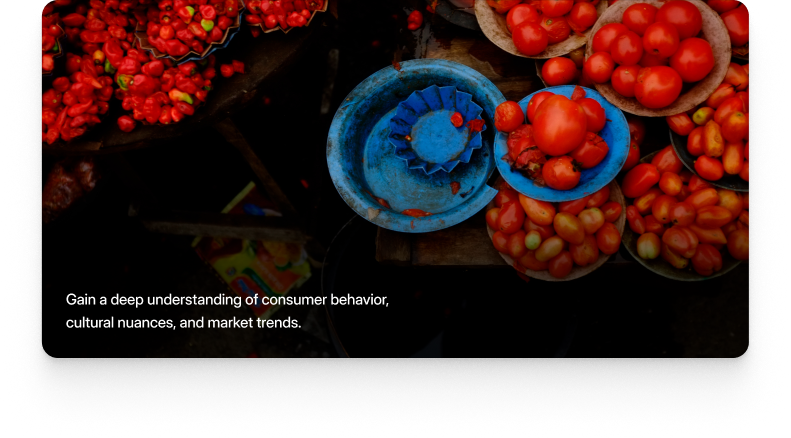
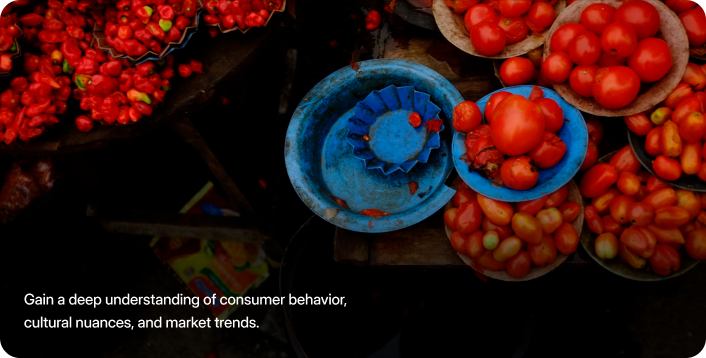
refactor: update core services section layout, styles, and images

diff --git a/src/components/services/core-services-section.tsx b/src/components/services/core-services-section.tsx
@@ -58,7 +58,11 @@ function NotchedBars({ color }: { color: string }) {
   const step = w / tabs;
 
   const makePath = (yTop: number) => {
-    const d: string[] = [`M 0 ${yTop}`, `L ${w} ${yTop}`, `L ${w - 4} ${yTop + h}`];
+    const d: string[] = [
+      `M 0 ${yTop}`,
+      `L ${w} ${yTop}`,
+      `L ${w - 4} ${yTop + h}`,
+    ];
     for (let i = tabs - 1; i > 0; i--) {
       const x = i * step;
       d.push(`L ${(x + 3.5).toFixed(1)} ${yTop + h}`);
@@ -75,12 +79,24 @@ function NotchedBars({ color }: { color: string }) {
       viewBox="0 0 260 34"
       fill="none"
       xmlns="http://www.w3.org/2000/svg"
-      className="h-auto w-full max-w-[240px] sm:max-w-[260px]"
+      className="h-auto w-full max-w-60 sm:max-w-65"
       aria-hidden="true"
     >
-      <path d={makePath(0)} fill={color} className="transition-colors duration-500" />
-      <path d={makePath(12)} fill={color} className="transition-colors duration-500" />
-      <path d={makePath(24)} fill={color} className="transition-colors duration-500" />
+      <path
+        d={makePath(0)}
+        fill={color}
+        className="transition-colors duration-500"
+      />
+      <path
+        d={makePath(12)}
+        fill={color}
+        className="transition-colors duration-500"
+      />
+      <path
+        d={makePath(24)}
+        fill={color}
+        className="transition-colors duration-500"
+      />
     </svg>
   );
 }
@@ -159,7 +175,10 @@ export function CoreServicesSection() {
 
     if (!isCur && !isOld) {
       return {
-        transform: direction === "next" ? "translate3d(0, 100%, 0)" : "translate3d(0, -100%, 0)",
+        transform:
+          direction === "next"
+            ? "translate3d(0, 100%, 0)"
+            : "translate3d(0, -100%, 0)",
         opacity: 0,
         zIndex: 0,
         pointerEvents: "none" as const,
@@ -171,14 +190,19 @@ export function CoreServicesSection() {
         transform: "translate3d(0, 0%, 0)",
         opacity: 1,
         zIndex: 2,
-        transition: animating ? "transform 500ms cubic-bezier(0.32, 0.72, 0, 1)" : "none",
+        transition: animating
+          ? "transform 500ms cubic-bezier(0.32, 0.72, 0, 1)"
+          : "none",
         pointerEvents: "auto" as const,
       };
     }
 
     // isOld (exiting)
     return {
-      transform: direction === "next" ? "translate3d(0, -100%, 0)" : "translate3d(0, 100%, 0)",
+      transform:
+        direction === "next"
+          ? "translate3d(0, -100%, 0)"
+          : "translate3d(0, 100%, 0)",
       opacity: 1,
       zIndex: 1,
       transition: "transform 500ms cubic-bezier(0.32, 0.72, 0, 1)",
@@ -193,7 +217,10 @@ export function CoreServicesSection() {
 
     if (!isCur && !isOld) {
       return {
-        transform: direction === "next" ? "translate3d(100%, 0, 0)" : "translate3d(-100%, 0, 0)",
+        transform:
+          direction === "next"
+            ? "translate3d(100%, 0, 0)"
+            : "translate3d(-100%, 0, 0)",
         opacity: 0,
         zIndex: 0,
         pointerEvents: "none" as const,
@@ -205,14 +232,19 @@ export function CoreServicesSection() {
         transform: "translate3d(0%, 0, 0)",
         opacity: 1,
         zIndex: 2,
-        transition: animating ? "transform 500ms cubic-bezier(0.32, 0.72, 0, 1)" : "none",
+        transition: animating
+          ? "transform 500ms cubic-bezier(0.32, 0.72, 0, 1)"
+          : "none",
         pointerEvents: "auto" as const,
       };
     }
 
     // isOld (exiting)
     return {
-      transform: direction === "next" ? "translate3d(-100%, 0, 0)" : "translate3d(100%, 0, 0)",
+      transform:
+        direction === "next"
+          ? "translate3d(-100%, 0, 0)"
+          : "translate3d(100%, 0, 0)",
       opacity: 1,
       zIndex: 1,
       transition: "transform 500ms cubic-bezier(0.32, 0.72, 0, 1)",
@@ -223,7 +255,7 @@ export function CoreServicesSection() {
   return (
     <section
       aria-labelledby="core-services-heading"
-      className="bg-eri-grey-2 py-8 text-eri-dark sm:py-10 lg:py-12"
+      className="bg-eri-grey-2 py-4 text-eri-dark sm:py-4 lg:py-6"
       onMouseEnter={() => setIsPaused(true)}
       onMouseLeave={() => setIsPaused(false)}
     >
@@ -243,13 +275,13 @@ export function CoreServicesSection() {
         </div>
 
         {/* ── Desktop layout ─────────────────────────────────────────── */}
-        <div className="hidden lg:grid lg:grid-cols-12 lg:items-center lg:gap-10 xl:gap-14">
+        <div className="hidden lg:flex lg:items-start lg:gap-2.5">
           {/* Left panel: capsule slider icon + Title + 3 Notched bars */}
-          <div className="col-span-5 flex flex-col justify-center">
+          <div className="w-70 shrink-0 pt-1">
             <div className="flex items-start gap-3.5">
               {/* Vertical pill capsule indicator */}
               <div
-                className="mt-2 flex w-[12px] flex-col items-center gap-1.5 rounded-full bg-black/[0.05] px-1 py-1.5 shadow-inner"
+                className="mt-1 flex w-3 flex-col items-center gap-1.5 rounded-full bg-black/5 px-1 py-1.5 shadow-inner"
                 role="tablist"
                 aria-label="Service slide selector"
               >
@@ -277,10 +309,12 @@ export function CoreServicesSection() {
               </div>
 
               {/* Title with smooth crossfade */}
-              <div className="min-h-[92px]">
+              <div className="min-h-23">
                 <h3
                   className={`font-display text-[32px] font-semibold leading-[1.12] tracking-[-0.02em] text-eri-dark whitespace-pre-line transition-all duration-300 xl:text-[36px] ${
-                    animating ? "translate-y-1 opacity-0" : "translate-y-0 opacity-100"
+                    animating
+                      ? "translate-y-1 opacity-0"
+                      : "translate-y-0 opacity-100"
                   }`}
                 >
                   {current.title}
@@ -294,21 +328,21 @@ export function CoreServicesSection() {
             </div>
           </div>
 
-          {/* Right panel: image card with vertical slide animation */}
-          <div className="col-span-7">
-            <div className="relative aspect-[791/438] w-full overflow-hidden rounded-2xl bg-eri-grey-3 shadow-md">
+          {/* Right panel: image card taking full width of container up to page boundary */}
+          <div className="min-w-0 flex-1">
+            <div className="relative aspect-706/358 w-full overflow-hidden rounded-[20px] isolate">
               {services.map((s, i) => (
                 <div
                   key={s.id}
-                  className="absolute inset-0 will-change-transform"
+                  className="absolute inset-0 overflow-hidden rounded-[20px] will-change-transform"
                   style={getDesktopStyle(i)}
                 >
                   <Image
                     src={s.image}
                     alt={s.imageAlt}
                     fill
-                    className="object-cover"
-                    sizes="(min-width: 1024px) 55vw, 100vw"
+                    className="rounded-[20px] object-cover"
+                    sizes="(min-width: 1024px) 70vw, 100vw"
                     priority={i === 0}
                   />
                 </div>
@@ -322,7 +356,7 @@ export function CoreServicesSection() {
           {/* Header text with vertical capsule slider icon */}
           <div className="flex items-start gap-3">
             <div
-              className="mt-1.5 flex w-[12px] flex-col items-center gap-1.5 rounded-full bg-black/[0.05] px-1 py-1.5 shadow-inner"
+              className="mt-1.5 flex w-3 flex-col items-center gap-1.5 rounded-full bg-black/5 px-1 py-1.5 shadow-inner"
               role="tablist"
               aria-label="Service slide selector"
             >
@@ -337,9 +371,7 @@ export function CoreServicesSection() {
                     aria-label={`Go to ${s.title.replace("\n", " ")}`}
                     onClick={() => goTo(i, i > active ? "next" : "prev")}
                     className={`rounded-full transition-all duration-300 focus-visible:outline-none ${
-                      isActive
-                        ? "h-3.5 w-1.5"
-                        : "h-1.5 w-1.5 bg-black/25"
+                      isActive ? "h-3.5 w-1.5" : "h-1.5 w-1.5 bg-black/25"
                     }`}
                     style={{
                       backgroundColor: isActive ? s.accentColor : undefined,
@@ -349,10 +381,12 @@ export function CoreServicesSection() {
               })}
             </div>
 
-            <div className="min-h-[70px]">
+            <div className="min-h-17.5">
               <h3
                 className={`font-display text-[26px] font-semibold leading-[1.15] tracking-[-0.02em] text-eri-dark whitespace-pre-line transition-all duration-300 sm:text-[30px] ${
-                  animating ? "translate-y-1 opacity-0" : "translate-y-0 opacity-100"
+                  animating
+                    ? "translate-y-1 opacity-0"
+                    : "translate-y-0 opacity-100"
                 }`}
               >
                 {current.title}
@@ -367,21 +401,21 @@ export function CoreServicesSection() {
 
           {/* Image card with horizontal side-by-side slide animation & touch swipe */}
           <div
-            className="relative mt-6 aspect-[791/438] w-full overflow-hidden rounded-2xl bg-eri-grey-3 shadow-md"
+            className="relative mt-6 aspect-706/358 w-full overflow-hidden rounded-[20px] isolate"
             onTouchStart={handleTouchStart}
             onTouchEnd={handleTouchEnd}
           >
             {services.map((s, i) => (
               <div
                 key={s.id}
-                className="absolute inset-0 will-change-transform"
+                className="absolute inset-0 overflow-hidden rounded-[20px] will-change-transform"
                 style={getMobileStyle(i)}
               >
                 <Image
                   src={s.image}
                   alt={s.imageAlt}
                   fill
-                  className="object-cover"
+                  className="rounded-[20px] object-cover"
                   sizes="100vw"
                   priority={i === 0}
                 />
